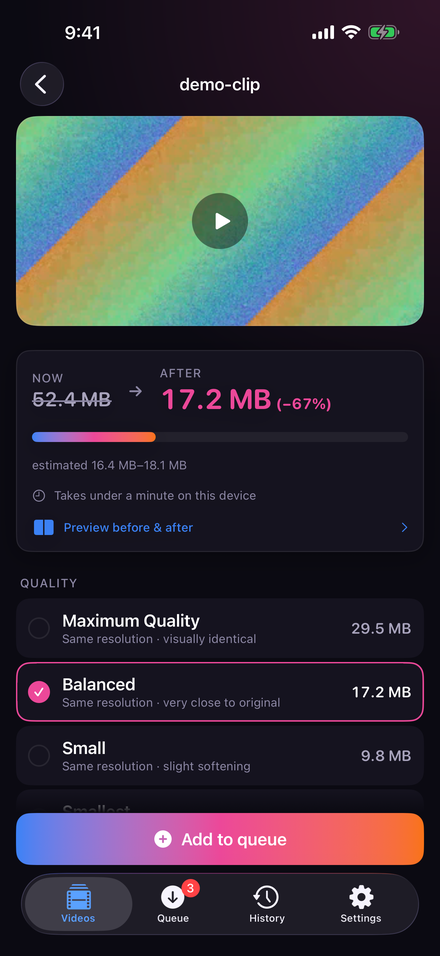
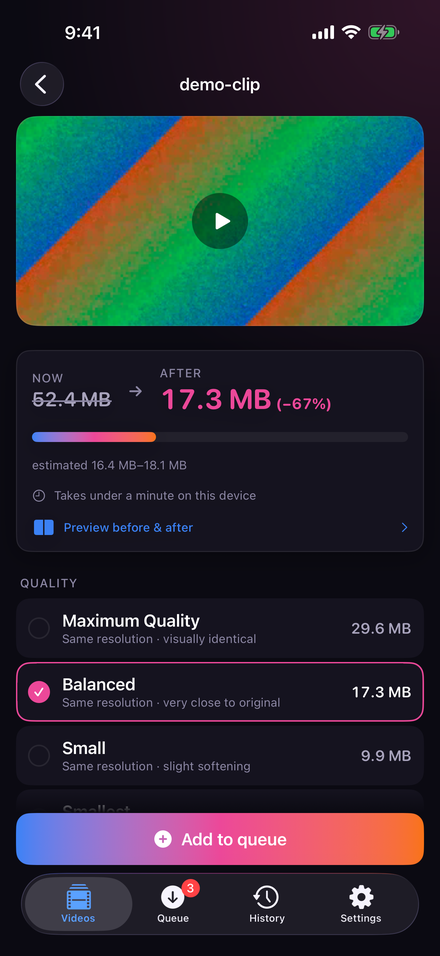
Publish videosqueezer: 55 pages

Changed region(s): [[0.0295, 0.1213, 0.975, 0.364], [0.4727, 0.3944, 0.5023, 0.4247]]

diff --git a/videosqueezer/el/index.html b/videosqueezer/el/index.html
@@ -106,6 +106,10 @@
       <h3>Κόψιμο, περικοπή, και μαζικά</h3>
       <p>Το κόψιμο δεν κοστίζει ποιότητα. Η περικοπή είναι μια κίνηση πάνω σε ζωντανή εικόνα. Και τα δύο εφαρμόζονται με μία κίνηση σε όλα τα εισαγόμενα βίντεο.</p>
     </div>
+    <div class="card">
+      <h3>Δύο περάσματα, αν τα θέλεις</h3>
+      <p>Άνοιξέ το και ο κωδικοποιητής μελετά πρώτα το βίντεο και μετά δίνει το bitrate εκεί που το χρειάζεται η εικόνα. Παίρνει περισσότερη ώρα. Αυτή είναι η ανταλλαγή, και την αποφασίζεις εσύ.</p>
+    </div>
   </div>
 </section>
 

diff --git a/videosqueezer/uk/index.html b/videosqueezer/uk/index.html
@@ -106,6 +106,10 @@
       <h3>Обрізання, кадрування — і все одразу</h3>
       <p>Обрізання не коштує якості. Кадрування — це жест над живим кадром. Будь-що з цього застосовується одразу до всіх імпортованих відео.</p>
     </div>
+    <div class="card">
+      <h3>Два проходи, якщо хочете</h3>
+      <p>Увімкніть — і кодувальник спершу вивчить відео, а потім віддасть бітрейт туди, де він потрібен зображенню. Це триває довше. Такий обмін, і рішення ваше.</p>
+    </div>
   </div>
 </section>
 

diff --git a/videosqueezer/ru/index.html b/videosqueezer/ru/index.html
@@ -106,6 +106,10 @@
       <h3>Обрезка, кадрирование — и всё сразу</h3>
       <p>Обрезка не стоит качества. Кадрирование — это жест поверх живого кадра. Любое из этого применяется сразу ко всем импортированным видео.</p>
     </div>
+    <div class="card">
+      <h3>Два прохода, если хотите</h3>
+      <p>Включите — и кодировщик сначала изучит видео, а потом отдаст битрейт туда, где он нужен изображению. Это дольше. Такой обмен, и решать вам.</p>
+    </div>
   </div>
 </section>
 

diff --git a/videosqueezer/ja/index.html b/videosqueezer/ja/index.html
@@ -106,6 +106,10 @@
       <h3>トリム、切り取り、そしてまとめて</h3>
       <p>トリムは画質を損ないません。切り取りは動いている映像の上でのピンチ操作です。どちらも、読み込んだすべての動画に一度に適用できます。</p>
     </div>
+    <div class="card">
+      <h3>必要なら 2 パスで</h3>
+      <p>オンにすると、エンコーダーは先に動画を調べてから、ビットレートを画面の必要な場所に使います。時間は長くかかります。その取り引きをするかどうかは、あなたが決めます。</p>
+    </div>
   </div>
 </section>
 

diff --git a/videosqueezer/ko/index.html b/videosqueezer/ko/index.html
@@ -106,6 +106,10 @@
       <h3>다듬고, 자르고, 한꺼번에</h3>
       <p>다듬기는 화질을 소모하지 않습니다. 자르기는 움직이는 화면 위의 손동작입니다. 둘 다 가져온 모든 동영상에 한 번에 적용됩니다.</p>
     </div>
+    <div class="card">
+      <h3>원한다면 2패스로</h3>
+      <p>켜면 인코더가 먼저 영상을 살펴본 뒤, 화면에서 필요한 곳에 비트레이트를 씁니다. 시간은 더 걸립니다. 그 거래를 할지는 당신이 정합니다.</p>
+    </div>
   </div>
 </section>
 

diff --git a/videosqueezer/fr/index.html b/videosqueezer/fr/index.html
@@ -106,6 +106,10 @@
       <h3>Couper, recadrer, en lot</h3>
       <p>Couper ne coûte aucune qualité. Recadrer est un geste sur une image en direct. L’un comme l’autre s’applique d’un coup à toutes les vidéos importées.</p>
     </div>
+    <div class="card">
+      <h3>Deux passages, si vous les voulez</h3>
+      <p>Activez-le et l’encodeur étudie la vidéo avant de l’encoder, puis dépense le débit là où l’image en a besoin. C’est plus long. C’est le marché, et c’est à vous de le conclure.</p>
+    </div>
   </div>
 </section>
 

diff --git a/videosqueezer/de/index.html b/videosqueezer/de/index.html
@@ -106,6 +106,10 @@
       <h3>Kürzen, zuschneiden, im Stapel</h3>
       <p>Kürzen kostet keine Qualität. Zuschneiden ist eine Geste über einem laufenden Bild. Beides lässt sich auf alle importierten Videos auf einmal anwenden.</p>
     </div>
+    <div class="card">
+      <h3>Zwei Durchläufe, wenn du willst</h3>
+      <p>Schalte es ein, und der Encoder sieht sich das Video erst an und gibt die Bitrate dann dort aus, wo das Bild sie braucht. Es dauert länger. Das ist der Handel – und du entscheidest.</p>
+    </div>
   </div>
 </section>
 

diff --git a/videosqueezer/it/index.html b/videosqueezer/it/index.html
@@ -106,6 +106,10 @@
       <h3>Taglia, ritaglia, e in blocco</h3>
       <p>Tagliare non costa qualità. Ritagliare è un gesto su un fotogramma in movimento. L’uno o l’altro si applica in una volta a tutti i video importati.</p>
     </div>
+    <div class="card">
+      <h3>Due passate, se le vuoi</h3>
+      <p>Attivalo e il codificatore studia il video prima di codificarlo, poi spende il bitrate dove l’immagine ne ha bisogno. Ci mette di più. È lo scambio, e sta a te farlo.</p>
+    </div>
   </div>
 </section>
 

diff --git a/videosqueezer/es/index.html b/videosqueezer/es/index.html
@@ -106,6 +106,10 @@
       <h3>Acortar, recortar y en lote</h3>
       <p>Acortar no cuesta calidad. Recortar es un gesto sobre una imagen en marcha. Cualquiera de los dos se aplica de una vez a todos los vídeos importados.</p>
     </div>
+    <div class="card">
+      <h3>Dos pasadas, si las quieres</h3>
+      <p>Actívalo y el codificador estudia el vídeo antes de codificarlo, y luego gasta los bits donde la imagen los necesita. Tarda más. Ese es el trato, y lo decides tú.</p>
+    </div>
   </div>
 </section>
 

diff --git a/videosqueezer/index.html b/videosqueezer/index.html
@@ -106,6 +106,10 @@
       <h3>Trim, crop, and do it in bulk</h3>
       <p>Trimming costs nothing in quality. Cropping is a pinch over a live frame. Either can be applied to every imported video at once.</p>
     </div>
+    <div class="card">
+      <h3>Two passes when you want them</h3>
+      <p>Turn it on and the encoder studies the video before it encodes it, then spends the bitrate where the picture needs it. It takes longer. That is the trade, and it is yours to make.</p>
+    </div>
   </div>
 </section>
 

diff --git a/videosqueezer/pt/index.html b/videosqueezer/pt/index.html
@@ -106,6 +106,10 @@
       <h3>Corte, recorte e em lote</h3>
       <p>Cortar não custa qualidade. Recortar é um gesto sobre um quadro em movimento. Qualquer um dos dois se aplica de uma vez a todos os vídeos importados.</p>
     </div>
+    <div class="card">
+      <h3>Duas passagens, se você quiser</h3>
+      <p>Ative e o codificador estuda o vídeo antes de codificar, e então gasta o bitrate onde a imagem precisa. Demora mais. É a troca, e a escolha é sua.</p>
+    </div>
   </div>
 </section>
 
